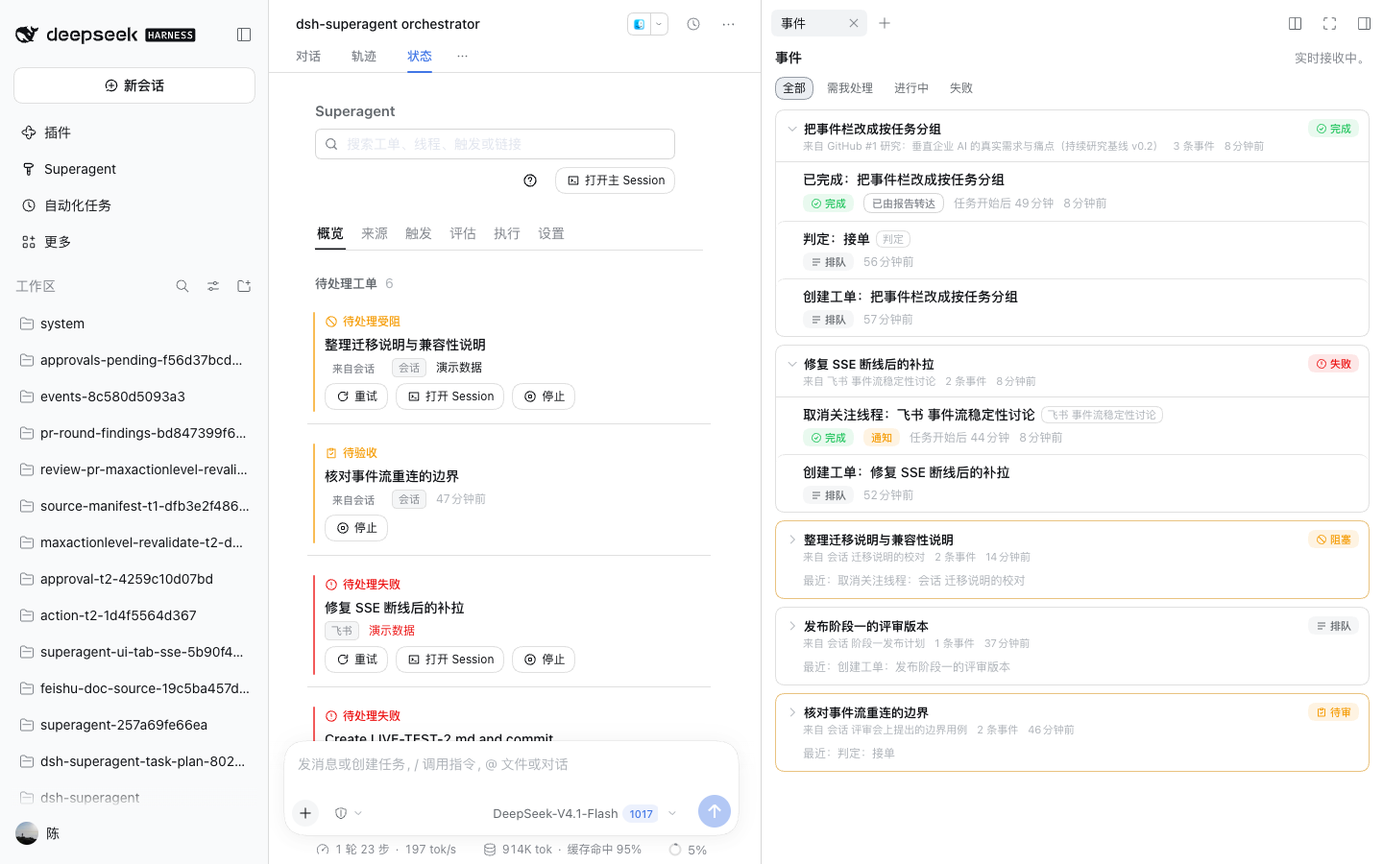
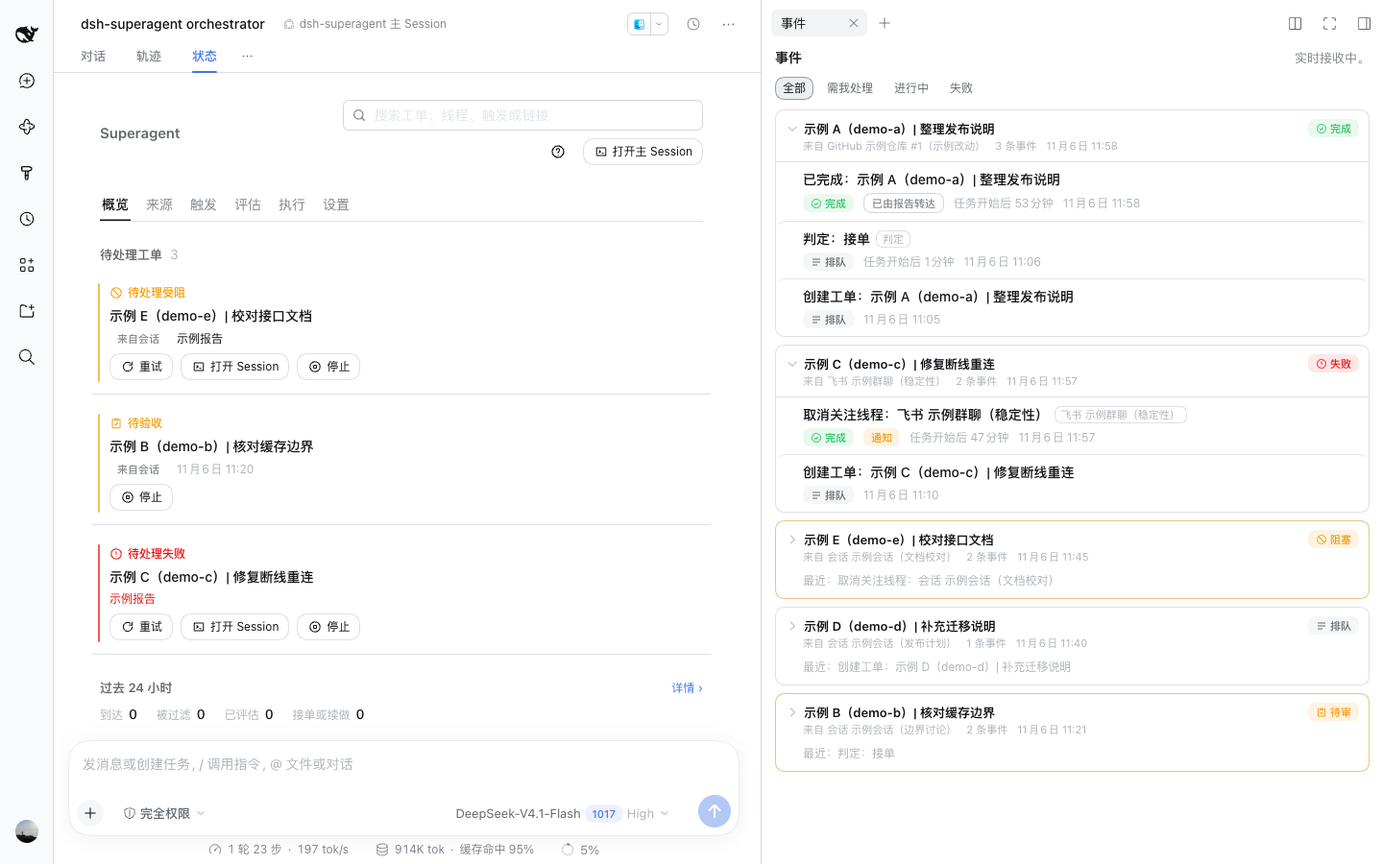
fix: complete Events review findings
- Keep each ticket end as recorded instead of restating it from the live ticket; recover legacy endings, Thread subjects and trigger intake rows from their summaries and decisions.
- Join an accepted trigger's intake row to the ticket its decision created.
- Give awaiting answers and undelivered inputs their own states, covered by the attention filter.
- Recapture both Events screenshots from one sanitized demo state, with neutral titles and synthetic thread labels, and state that evidence accurately.
- Cover the legacy, resume/re-end, person-stage and streamed-presentation cases; tighten the bundle budgets.

diff --git a/packages/dsh/src/app/activity.ts b/packages/dsh/src/app/activity.ts
@@ -12,7 +12,7 @@ import { preview } from './views/text.ts'
 export type ActivityLevel = 'quiet' | 'feed' | 'notice'
 
 /** How the work an event belongs to stands, in the words a person acts on. */
-export type ActivityStatus = 'queued' | 'working' | 'idle' | 'review' | 'blocked' | 'failed' | 'done'
+export type ActivityStatus = 'queued' | 'working' | 'idle' | 'review' | 'answer' | 'delivery' | 'blocked' | 'failed' | 'done'
 
 /** What an event is about: a Ticket, Thread, Trigger, Decision or the Policy, with enough to label and open it. */
 export interface ActivitySubject {
@@ -95,6 +95,8 @@ interface ActivityRead {
 /** The domain reads a feed page resolves names, states and jump targets through; `Store` implements them. */
 export interface ActivityLookup {
   ticket: (id: string) => Ticket | undefined
+  /** The Ticket a Trigger created, so an intake row joins the task its Decision went on to make. */
+  ticketForTrigger?: (id: string) => Ticket | undefined
   thread: (key: string) => Thread | undefined
   trigger: (id: string) => Trigger | undefined
   decision: (id: string) => Decision | undefined
@@ -103,7 +105,7 @@ export interface ActivityLookup {
 
 /** The Store reads behind an `ActivityLookup`; optional chaining keeps a partial test double from failing a read. */
 export interface ActivityStoreReads {
-  tickets: { get: (id: string) => Ticket | undefined }
+  tickets: { get: (id: string) => Ticket | undefined; byTrigger?: (id: string) => Ticket | undefined }
   threads: { get: (key: string) => Thread | undefined }
   triggers: { get: (id: string) => Trigger | undefined }
   decisions: { get: (id: string) => Decision | undefined }
@@ -111,7 +113,8 @@ export interface ActivityStoreReads {
 }
 /** Bind an `ActivityLookup` to a Store, so every feed page can name its objects without the routes passing four readers. */
 export function activityLookup(store: ActivityStoreReads): ActivityLookup {
-  return { ticket: id => store.tickets?.get(id), thread: key => store.threads?.get(key), trigger: id => store.triggers?.get(id),
+  return { ticket: id => store.tickets?.get(id), ticketForTrigger: id => store.tickets?.byTrigger?.(id),
+    thread: key => store.threads?.get(key), trigger: id => store.triggers?.get(id),
     decision: id => store.decisions?.get(id), firstTrigger: key => store.read?.firstTrigger(key) }
 }
 
@@ -128,14 +131,19 @@ export function endCoveredBy(ticket: Ticket): 'report' | 'human' | undefined {
   return report && (report.state === 'ready' || report.state === 'dropped') ? 'report' : undefined
 }
 
+/** The state an ending leaves behind: an unmerged close or a stop is a failure, every other outcome is done. */
+function endedStatus(outcome: TicketOutcome | undefined): ActivityStatus {
+  return outcome === 'closed' || outcome === 'stopped' ? 'failed' : 'done'
+}
+
 /** The state a Ticket is in: ended Tickets are done unless their outcome is a failure, and a person's turn maps to its action. */
 export function activityStatusOf(ticket: Ticket): ActivityStatus {
   const stage = ticketStage(ticket)
   switch (stage.stage) {
     case 'ended':
-      return ticket.ended?.outcome === 'closed' || ticket.ended?.outcome === 'stopped' ? 'failed' : 'done'
+      return endedStatus(ticket.ended?.outcome)
     case 'person':
-      return stage.action === 'review' ? 'review' : stage.action === 'failed' ? 'failed' : 'blocked'
+      return stage.action
     case 'working':
       return stage.action === 'queued' ? 'queued' : 'working'
     case 'idle':
@@ -294,15 +302,22 @@ function namedSubject(subject: ActivitySubject, thread: Thread | undefined, look
   return subject.kind === 'thread' && thread ? threadSubject(thread, lookup) : subject
 }
 
+/** The Trigger id a summary written before grading names, for intake and follow-up rows. */
+function legacyTriggerId(record: ActivityRecord): string | undefined {
+  return /^Trigger (\S+) (?:received|queued for a fresh assessment|left the follow-up queue)$/.exec(record.summary)?.[1]
+}
+
 /** A row stored before subjects were graded: name the object its summary or its Ticket names. */
 function inferredSubject(record: ActivityRecord, owner: Ticket | undefined, thread: Thread | undefined, lookup: ActivityLookup): ActivitySubject | undefined {
   if (record.subject) return namedSubject(record.subject, thread, lookup)
   const decision = /^Decision (\S+) \(/.exec(record.summary)?.[1]
   if (record.event === 'decision.recorded' && decision) return { kind: 'decision', id: decision }
+  // A follow row's object is the Thread even though the row also names the owning Ticket.
+  if ((record.event === 'thread.subscribed' || record.event === 'thread.unsubscribed') && thread) return threadSubject(thread, lookup)
+  const trigger = legacyTriggerId(record)
+  if (record.event.startsWith('trigger.') && trigger) return { kind: 'trigger', id: trigger }
   if (record.ticket) return { kind: 'ticket', id: record.ticket }
   if (owner) return { kind: 'ticket', id: owner.id }
-  const trigger = /^Trigger (\S+) received$/.exec(record.summary)?.[1]
-  if (record.event === 'trigger.received' && trigger) return { kind: 'trigger', id: trigger }
   return thread ? threadSubject(thread, lookup) : undefined
 }
 
@@ -311,23 +326,46 @@ function inferredReason(record: ActivityRecord): string | undefined {
   return /^Assignment \S+ ended on \S+: (.+)$/.exec(record.summary)?.[1]
 }
 
+const OUTCOMES = new Set<TicketOutcome>(['completed', 'merged', 'closed', 'dropped', 'stopped'])
+
+/** The ending a legacy summary names: an outcome, a reason, or neither when it does not parse. */
+function legacyEnd(record: ActivityRecord): { outcome?: TicketOutcome; reason?: string } {
+  const value = /^Ticket \S+ ended \((.+)\)$/.exec(record.summary)?.[1]
+  if (!value) return {}
+  return (OUTCOMES as Set<string>).has(value) ? { outcome: value as TicketOutcome } : { reason: value }
+}
+
+/**
+ * The ending a row records. A graded row keeps its stored facts even after the Ticket was resumed and ended again; a legacy
+ * row recovers what its summary names, and only an unparseable one falls back to the Ticket as it stands now.
+ */
+function endedFacts(record: ActivityRecord, ticket: Ticket | undefined): ActivityDetail | undefined {
+  if (record.event !== 'ticket.ended') return undefined
+  if (record.detail?.outcome) return { outcome: record.detail.outcome, ...record.detail.reason ? { reason: record.detail.reason } : {} }
+  const legacy = record.detail ? {} : legacyEnd(record)
+  const current = record.detail || legacy.outcome || legacy.reason ? undefined : ticket?.ended
+  const outcome = record.detail?.outcome ?? legacy.outcome ?? current?.outcome
+  const reason = record.detail?.reason ?? legacy.reason ?? current?.reason
+  return outcome || reason ? { ...outcome ? { outcome } : {}, ...reason ? { reason } : {} } : undefined
+}
+
 /**
  * Completes one stored record for the Events tab: the object badge, the owning task and its originating Thread, how the
  * work stood at this event and now, the event's facts, and how long after the task's start it happened. Every field is
  * optional so a row written before this presentation existed still reads: its Ticket, Thread and summary name it instead.
  */
 export function presentActivity(record: ActivityRecord, lookup: ActivityLookup): ActivityRecord {
-  const legacyTrigger = !record.subject && record.event === 'trigger.received'
-    ? /^Trigger (\S+) received$/.exec(record.summary)?.[1] : undefined
   const subjectRef = record.subject
-  const triggerId = subjectRef?.kind === 'trigger' ? subjectRef.id : legacyTrigger
+  const triggerId = subjectRef?.kind === 'trigger' ? subjectRef.id : !record.subject ? legacyTriggerId(record) : undefined
   const trigger = triggerId ? lookup.trigger(triggerId) : undefined
   const legacyDecision = !record.subject && record.event === 'decision.recorded'
     ? /^Decision (\S+) \(/.exec(record.summary)?.[1] : undefined
   const decisionId = subjectRef?.kind === 'decision' ? subjectRef.id : legacyDecision
   const decision = decisionId ? lookup.decision(decisionId) : undefined
-  const ticketId = record.ticket ?? (subjectRef?.kind === 'ticket' ? subjectRef.id : undefined) ?? decision?.ticketId
-  const ticket = ticketId ? lookup.ticket(ticketId) : undefined
+  // An accepted Trigger's intake row joins the Ticket the Decision created, so one task stays one group.
+  const originTicket = triggerId ? lookup.ticketForTrigger?.(triggerId) : undefined
+  const ticketId = record.ticket ?? (subjectRef?.kind === 'ticket' ? subjectRef.id : undefined) ?? decision?.ticketId ?? originTicket?.id
+  const ticket = (ticketId ? lookup.ticket(ticketId) : undefined) ?? originTicket
   const home = record.thread ?? (subjectRef?.kind === 'thread' ? subjectRef.id : undefined)
     ?? (trigger?.threads[0] ? threadKey(trigger.threads[0]) : undefined)
   const thread = home ? lookup.thread(home) : undefined
@@ -338,20 +376,22 @@ export function presentActivity(record: ActivityRecord, lookup: ActivityLookup):
     ? { id: ticket.id, title: ticket.title, status: activityStatusOf(ticket), ...parent ? { parent } : {} }
     : thread ? { id: thread.key, title: threadTitle(thread, lookup), status: statusOf(record.event, decision, undefined) } : undefined
 
+  const ended = endedFacts(record, ticket)
   const triggerPreview = trigger ? preview(trigger.text, 120) : undefined
   const detail: ActivityDetail = {
     ...record.detail,
-    ...record.event === 'ticket.ended' && ticket?.ended ? { outcome: ticket.ended.outcome, ...ticket.ended.reason ? { reason: ticket.ended.reason } : {} } : {},
+    ...ended && !record.detail?.outcome ? ended : {},
     ...record.event === 'decision.recorded' && decision ? { decision: decision.kind } : {},
     ...record.event === 'assignment.ended' && !record.detail?.reason && inferredReason(record)
       ? { reason: inferredReason(record) } : {},
-    ...record.event === 'trigger.received' && trigger ? { trigger: { source: trigger.source, ...triggerPreview ? { preview: triggerPreview } : {} } } : {},
+    ...record.event.startsWith('trigger.') && trigger
+      ? { trigger: { source: trigger.source, ...triggerPreview ? { preview: triggerPreview } : {} } } : {},
   }
   const started = ticket ? Date.parse(ticket.createdAt) : Number.NaN
   const at = Date.parse(record.at)
   const sinceStartMs = Number.isFinite(started) && Number.isFinite(at) && at - started >= 60_000 ? at - started : undefined
   return { ...record, ...subject ? { subject } : {}, ...task ? { task } : {}, ...home && !record.thread ? { thread: home } : {},
-    status: statusOf(record.event, decision, ticket),
+    status: record.event === 'ticket.ended' ? endedStatus(ended?.outcome) : statusOf(record.event, decision, ticket),
     ...Object.keys(detail).length ? { detail } : {}, ...sinceStartMs ? { sinceStartMs } : {} }
 }
 

diff --git a/tests/activity.spec.ts b/tests/activity.spec.ts
@@ -4,7 +4,7 @@ import { join } from 'node:path'
 import { afterEach, beforeEach, expect, it } from 'vitest'
 import type { Assignment, Decision, DomainEvent, Thread, Ticket, Trigger } from '@superagent/kernel'
 import { Store } from '@superagent/dsh/app/store.ts'
-import { ActivityLog, activityFeed, endCoveredBy, gradeEvent, presentActivity, type ActivityLookup } from '@superagent/dsh/app/activity.ts'
+import { ActivityLog, activityFeed, activityStatusOf, endCoveredBy, gradeEvent, presentActivity, type ActivityLookup } from '@superagent/dsh/app/activity.ts'
 import { eventNotice } from '@superagent/dsh/app/notices.ts'
 
 let directory: string
@@ -14,7 +14,7 @@ afterEach(() => { rmSync(directory, { recursive: true, force: true }) })
 /** One domain event, with only the fields its grader reads. */
 const event = <K extends DomainEvent['type']>(type: K, data: Extract<DomainEvent, { type: K }>['data'], at = '2026-01-01T00:00:01Z'): DomainEvent =>
   ({ type, at, data }) as DomainEvent
-const report = (state: 'ready' | 'blocked' | 'dropped' | 'progress'): Assignment['report'] => ({ state, summary: 'x', at: '2026-01-01T00:00:02Z' })
+const report = (state: 'ready' | 'blocked' | 'failed' | 'dropped' | 'progress'): Assignment['report'] => ({ state, summary: 'x', at: '2026-01-01T00:00:02Z' })
 const ticket = (ended: Ticket['ended'], assignments: Assignment[] = []): Ticket => ({
   id: 't1', title: 'Fix', decisionId: 'd1', mandate: { strength: 'explicit', policyVersion: 'v', basis: { via: 'listed' },
     actor: { source: 'feishu', id: 'u1' }, scope: '' }, channels: [], ended, assignments, inputs: [], undelivered: [], createdAt: '', updatedAt: '',
@@ -72,6 +72,8 @@ it('persists graded events with a monotonic cursor, filters by minimum level, an
   const log = new ActivityLog(store)
   store.tickets.save(ticket({ at: '2026-01-01T00:00:03Z', by: 'executor', outcome: 'completed' },
     [{ id: 'a1', state: 'ended', createdAt: '', report: report('ready') }]))
+  expect(store.tickets.byTrigger('x')).toMatchObject({ id: 't1' })
+  expect(store.tickets.byTrigger('missing')).toBeUndefined()
   const first = log.record(event('trigger.received', { triggerId: 'x', threads: [] }))
   const second = log.record(event('eval.started', { evalId: 'e1', threadKey: 'feishu:oc:om', triggerIds: ['x'], strength: 'inferred' }))
   const third = log.record(event('ticket.ended', { ticketId: 't1', by: 'executor', outcome: 'completed' }))
@@ -157,7 +159,9 @@ const parentThread: Thread = { key: 'github:8', ref: { source: 'github', id: '8'
 const decision: Decision = { id: 'd1', evalId: 'e1', ticketId: 't1', kind: 'accept', strength: 'explicit', threadKey: 'github:8',
   triggerIds: ['x'], reason: [], policyVersion: 'v', at: '2026-01-01T00:00:00Z',
   mandate: { strength: 'explicit', policyVersion: 'v', basis: { via: 'listed' }, actor: { source: 'feishu', id: 'u1' }, scope: '' } }
-const lookup: ActivityLookup = { ticket: id => id === 't1' ? { ...ticket(undefined), createdAt: '2026-01-01T00:00:00Z' } : undefined,
+const ownerTicket = { ...ticket(undefined), createdAt: '2026-01-01T00:00:00Z' }
+const lookup: ActivityLookup = { ticket: id => id === 't1' ? ownerTicket : undefined,
+  ticketForTrigger: id => id === 'x' ? ownerTicket : undefined,
   thread: key => key === 'github:8' ? parentThread : undefined, trigger: id => id === 'x' ? origin : undefined,
   decision: id => id === 'd1' ? decision : undefined, firstTrigger: () => origin }
 
@@ -182,14 +186,54 @@ it('presents a row stored before subjects and details existed, from its Ticket, 
   // A trigger row before the trigger id was stored still names the object and reads its preview from the summary.
   const received = { seq: 10, at: '2026-01-01T00:00:00Z', event: 'trigger.received' as const, level: 'feed' as const,
     summary: 'Trigger x received' }
+  // The intake row joins the Ticket its Decision created instead of leaving a Thread group beside it.
   expect(presentActivity(received, lookup)).toMatchObject({ status: 'queued', subject: { kind: 'trigger', id: 'x' },
     thread: 'github:8', detail: { trigger: { source: 'feishu', preview: 'Fix the events tab' } },
-    task: { id: 'github:8', title: '#8 Events tab' } })
+    task: { id: 't1', title: 'Fix', status: 'queued',
+      parent: { kind: 'thread', id: 'github:8', source: 'github', label: '#8 Events tab' } } })
+})
+
+it('keeps an earlier ending when its ticket was resumed and ended again', () => {
+  const record = { seq: 11, ...gradeEvent(event('ticket.ended', { ticketId: 't1', by: 'executor', outcome: 'completed' }, '2026-01-01T00:10:00Z'),
+    { ...ownerTicket, ended: { at: '2026-01-01T00:10:00Z', by: 'executor', outcome: 'completed' } }) }
+  // The live ticket now records the later, failed end; the stored row still reads as the completed end it recorded.
+  const live = { ...ownerTicket, ended: { at: '2026-01-02T00:10:00Z', by: 'executor' as const, outcome: 'closed' as const } }
+  expect(presentActivity(record, { ...lookup, ticket: () => live, ticketForTrigger: undefined }))
+    .toMatchObject({ status: 'done', detail: { outcome: 'completed' }, task: { status: 'failed' } })
+  // A legacy row parses its own summary even when the live ticket has a different ending.
+  const legacy = { seq: 12, at: '2026-01-01T00:10:00Z', event: 'ticket.ended' as const, level: 'notice' as const,
+    summary: 'Ticket t1 ended (completed)', ticket: 't1' }
+  expect(presentActivity(legacy, { ...lookup, ticket: () => live })).toMatchObject({ status: 'done', detail: { outcome: 'completed' } })
+})
+
+it('gives a legacy unsubscribe row its Thread subject and completes legacy trigger notices', () => {
+  const unsubscribed = { seq: 13, at: '2026-01-01T00:00:00Z', event: 'thread.unsubscribed' as const, level: 'notice' as const,
+    summary: 'Ticket t1 unsubscribed from github:8 (person)', ticket: 't1', thread: 'github:8' }
+  expect(presentActivity(unsubscribed, lookup)).toMatchObject({ subject: { kind: 'thread', id: 'github:8', source: 'github',
+    label: '#8 Events tab' }, status: 'done' })
+  const requeued = { seq: 14, at: '2026-01-01T00:00:00Z', event: 'trigger.requeued' as const, level: 'notice' as const,
+    summary: 'Trigger x queued for a fresh assessment' }
+  expect(presentActivity(requeued, lookup)).toMatchObject({ status: 'blocked', subject: { kind: 'trigger', id: 'x' },
+    thread: 'github:8', detail: { trigger: { source: 'feishu', preview: 'Fix the events tab' } }, task: { id: 't1' } })
+})
+
+it('maps every person stage to its own state', () => {
+  const base = ticket(undefined)
+  expect(activityStatusOf({ ...base, attention: { id: 'q', question: 'Which?' } })).toBe('answer')
+  expect(activityStatusOf({ ...base, delivery: { error: 'missing worktree', at: '2026-01-01T00:00:00Z' } })).toBe('delivery')
+  expect(activityStatusOf({ ...base, assignments: [{ id: 'a1', state: 'ended', createdAt: '', report: report('ready') }] })).toBe('review')
+  expect(activityStatusOf({ ...base, assignments: [{ id: 'a1', state: 'ended', createdAt: '', report: report('blocked') }] })).toBe('blocked')
+  expect(activityStatusOf({ ...base, assignments: [{ id: 'a1', state: 'ended', createdAt: '', report: report('failed') }] })).toBe('failed')
+  expect(activityStatusOf({ ...base, assignments: [{ id: 'a1', state: 'pending', createdAt: '' }] })).toBe('queued')
+  expect(activityStatusOf({ ...base, assignments: [{ id: 'a1', state: 'running', createdAt: '', startedAt: '' }] })).toBe('working')
+  expect(activityStatusOf({ ...base, assignments: [{ id: 'a1', state: 'ended', createdAt: '', report: report('progress') }] })).toBe('idle')
+  expect(activityStatusOf({ ...base, ended: { at: '', by: 'executor', outcome: 'completed' } })).toBe('done')
+  expect(activityStatusOf({ ...base, ended: { at: '', by: 'executor', outcome: 'closed' } })).toBe('failed')
 })
 
 it('completes a feed page only when the reader provides the domain lookup', () => {
   const read = { latest: () => 1, recent: () => [{ seq: 1, at: '2026-01-01T00:00:00Z', event: 'trigger.received' as const,
     level: 'feed' as const, summary: 'Trigger x received' }], after: () => [] }
   expect(activityFeed(read, 0).items[0]?.task).toBeUndefined()
-  expect(activityFeed(read, 0, 50, undefined, lookup).items[0]?.task).toMatchObject({ id: 'github:8' })
+  expect(activityFeed(read, 0, 50, undefined, lookup).items[0]?.task).toMatchObject({ id: 't1' })
 })

diff --git a/packages/dsh/src/client/system.tsx b/packages/dsh/src/client/system.tsx
@@ -15,9 +15,9 @@ import { duration, fullTime, localized, reasonLabel, valueLabel, when, type T } 
 
 const LEVEL_TONE = { quiet: 'outline', feed: 'info', notice: 'warning' } as const
 const STATUS_TONE: Record<ActivityStatus, TagTone> = { queued: 'neutral', working: 'info', idle: 'neutral', review: 'warning',
-  blocked: 'warning', failed: 'danger', done: 'success' }
+  answer: 'warning', delivery: 'warning', blocked: 'warning', failed: 'danger', done: 'success' }
 const STATUS_ICON: Record<ActivityStatus, IconName> = { queued: 'queue', working: 'running', idle: 'clock', review: 'review',
-  blocked: 'blocked', failed: 'alert', done: 'decision' }
+  answer: 'ask', delivery: 'inbox', blocked: 'blocked', failed: 'alert', done: 'decision' }
 const FILTERS = ['all', 'attention', 'running', 'failed'] as const
 const REPORT_REASONS = ['progress', 'waiting', 'ready', 'blocked', 'failed', 'dropped'] as const
 /** How the Events tab narrows task groups: everything, a person's turn or trouble, live work, or failure alone. */
@@ -56,8 +56,12 @@ export function activityTitle(t: T, record: ActivityRecord): string {
       return title ? t('activityEvent.ticketCreated', { title }) : record.summary
     case 'ticket.resumed':
       return title ? t('activityEvent.ticketResumed', { title }) : record.summary
-    case 'ticket.ended':
-      return detail?.outcome && title ? t('activityEvent.ticketEnded', { outcome: t(`outcome.${detail.outcome}`), title }) : record.summary
+    case 'ticket.ended': {
+      if (!detail?.outcome || !title) return record.summary
+      const reason = detail.reason && detail.reason !== detail.outcome ? reasonLabel(t, detail.reason) : ''
+      return reason ? t('activityEvent.ticketEndedReason', { outcome: t(`outcome.${detail.outcome}`), reason, title })
+        : t('activityEvent.ticketEnded', { outcome: t(`outcome.${detail.outcome}`), title })
+    }
     case 'assignment.started':
       return t('activityEvent.assignmentStarted')
     case 'assignment.ended':
@@ -97,7 +101,8 @@ export function groupStatus(record: ActivityRecord): ActivityStatus {
 export function matchesActivityFilter(status: ActivityStatus, filter: ActivityFilter): boolean {
   switch (filter) {
     case 'all': return true
-    case 'attention': return status === 'review' || status === 'blocked' || status === 'failed'
+    case 'attention': return status === 'review' || status === 'answer' || status === 'delivery' || status === 'blocked'
+      || status === 'failed'
     case 'running': return status === 'queued' || status === 'working' || status === 'idle'
     case 'failed': return status === 'failed'
   }

diff --git a/tests/client.spec.tsx b/tests/client.spec.tsx
@@ -7,6 +7,7 @@ import { apply } from '@superagent/dsh/client/index.tsx'
 import type { ActivityRecord } from '@superagent/dsh/app/activity.ts'
 import { zh } from '@superagent/dsh/client/locales.ts'
 import { PANEL_NAVIGATE } from '@superagent/dsh/client/panel.ts'
+import { activityTitle, matchesActivityFilter } from '@superagent/dsh/client/system.tsx'
 import { SettingsSchema } from '@superagent/dsh/policy.ts'
 
 declare global { var IS_REACT_ACT_ENVIRONMENT: boolean }
@@ -286,6 +287,17 @@ it('groups events by task with readable titles, object badges, states, durations
   window.removeEventListener(PANEL_NAVIGATE, onNavigate)
   expect(navigated).toEqual({ page: 'eval' })
   view.dispose()
+})
+it('treats answer and delivery work as needing a person and keeps a recorded ending reason in the title', () => {
+  expect(matchesActivityFilter('answer', 'attention')).toBe(true)
+  expect(matchesActivityFilter('delivery', 'attention')).toBe(true)
+  expect(matchesActivityFilter('answer', 'failed')).toBe(false)
+  const ended = { seq: 1, at: '2026-01-01T00:00:00Z', event: 'ticket.ended' as const, level: 'feed' as const,
+    summary: 'Ticket t1 ended (manual)', ticket: 't1', detail: { outcome: 'closed' as const, reason: 'manual' },
+    task: { id: 't1', title: '固定标题', status: 'failed' as const } }
+  const title = activityTitle(t, ended)
+  expect(title).toContain('固定标题')
+  expect(title).toContain('manual')
 })
 it('opens the Events tab once when the first unread notice reaches the main Session', async () => {
   serve()

diff --git a/packages/dsh/src/client/locales.ts b/packages/dsh/src/client/locales.ts
@@ -123,6 +123,8 @@ const TEXT = {
   'activityStatus.working': ['进行中', 'In progress'],
   'activityStatus.idle': ['等待触发', 'Waiting for a Trigger'],
   'activityStatus.review': ['待审', 'Awaiting review'],
+  'activityStatus.answer': ['待回答', 'Awaiting answer'],
+  'activityStatus.delivery': ['输入未送达', 'Input not delivered'],
   'activityStatus.blocked': ['阻塞', 'Blocked'],
   'activityStatus.failed': ['失败', 'Failed'],
   'activityStatus.done': ['完成', 'Done'],
@@ -141,6 +143,7 @@ const TEXT = {
   'activityEvent.ticketCreated': ['创建工单：{title}', 'Ticket created: {title}'],
   'activityEvent.ticketResumed': ['恢复工单：{title}', 'Ticket resumed: {title}'],
   'activityEvent.ticketEnded': ['{outcome}：{title}', '{outcome}: {title}'],
+  'activityEvent.ticketEndedReason': ['{outcome}（{reason}）：{title}', '{outcome} ({reason}): {title}'],
   'activityEvent.assignmentStarted': ['执行器开始处理', 'Assignment started'],
   'activityEvent.assignmentEnded': ['执行结束：{reason}', 'Assignment ended: {reason}'],
   'activityEvent.threadSubscribed': ['关注线程：{name}', 'Following Thread: {name}'],

diff --git a/packages/dsh/src/app/store.ts b/packages/dsh/src/app/store.ts
@@ -263,6 +263,13 @@ export class Store implements Repositories {
   }
   readonly tickets = {
     get: (id: string): Ticket | undefined => { const row = this.db.prepare('SELECT value FROM ticket WHERE id=?').get(id); return row ? JSON.parse(String(row.value)) as Ticket : undefined },
+    /** The Ticket a Trigger created, so an Events row can join the task its intake became. */
+    byTrigger: (triggerId: string): Ticket | undefined => {
+      const row = this.db.prepare(`SELECT value FROM ticket WHERE value ->> '$.origin.triggerId' = ?
+        OR EXISTS (SELECT 1 FROM json_each(json_extract(value, '$.origin.triggerIds')) j WHERE j.value = ?) ORDER BY rowid LIMIT 1`)
+        .get(triggerId, triggerId)
+      return row ? JSON.parse(String(row.value)) as Ticket : undefined
+    },
     save: (ticket: Ticket): void => { this.db.prepare('INSERT INTO ticket VALUES (?,?) ON CONFLICT(id) DO UPDATE SET value=excluded.value').run(ticket.id, JSON.stringify(ticket)) },
     /** Newest first. */
     list: (): Ticket[] => this.values('SELECT value FROM ticket ORDER BY rowid DESC'),

diff --git a/tests/http.spec.ts b/tests/http.spec.ts
@@ -175,6 +175,9 @@ it('streams activity after a cursor with sequence ids and a ready head', async (
   expect(result.text).not.toContain('id: 1\n')
   expect(result.text).toContain('id: 2\nevent: activity\ndata: {"seq":2')
   expect(result.text).toContain('id: 3\nevent: activity')
+  // Streamed rows carry the same presentation as GET activity, not only the stored facts.
+  expect(result.text).toContain('"subject":{"kind":"trigger","id":"2"}')
+  expect(result.text).toContain('"status":"queued"')
   expect(result.text.match(/event: ready/g)).toHaveLength(2)
 })
 it('lets Last-Event-ID supersede the connection URL cursor, so a reconnect does not replay', async () => {

diff --git a/docs/005-panel.md b/docs/005-panel.md
@@ -58,7 +58,7 @@ The main Session is the process's single router Session. Four surfaces make it t
 - **New Session → Main Session.** The right side of the New Session composer offers **Main Session** (主会话), which selects the existing `masterId` through the Workspace. It never starts another router Session; using it twice returns to the same Conversation. If the Session catalog is not ready, the control disables itself and reports why. The management panel keeps its own **Open main Session** header button as a fallback.
 - **The main Session row** carries a compact **Main** (主) badge in its leading decoration. DSH `0.2.1-rc.5` has no trailing decoration on Session rows, so the badge is leading rather than trailing.
 - **Status** (状态) is a tab inside the main Conversation. It mounts the existing management page itself — the same header, search, tabs (Overview, Sources, Triggers, Eval, Execution, Settings) and actions as the sidebar panel — rather than a reduced second view. The embedded copy keeps its own page route, so navigating inside 状态 does not move the sidebar panel, and vice versa. Any other Session shows one sentence explaining that the Status page belongs to the main Session.
-- **Events** (事件) is a right-pane tab. Its title shows the number of unread `notice`-level events; opening the tab marks the current head seen and persists the cursor in this browser. The tab opens automatically once, when the first unread notice reaches the main Session; later opening and closing stay manual. The tab folds events into one group per task — a Ticket, or the Thread for work no Ticket owns yet. A group header names the task, its origin (the pull request or conversation it was accepted from), its current state and the latest event; unfolding it shows each event with a readable title, a badge for the object it is about (Ticket, Thread, Trigger, Decision or Policy) that opens that object's page, the state the event recorded, how long after the task's start it happened, and when. Filters above the list narrow it to all events, the ones needing a person (awaiting review, blocked or failed), live work (queued, working or waiting for a Trigger), or failures alone. The tab uses the same-origin SSE stream and falls back to five-second cursor polling when the stream is unavailable; a notice whose result was already relayed by a report stays in the feed without counting as unread. Records written before these facts existed are completed from their Ticket, Thread and one-line summary when the feed is read; the `activity` table stores JSON, so no migration is needed.
+- **Events** (事件) is a right-pane tab. Its title shows the number of unread `notice`-level events; opening the tab marks the current head seen and persists the cursor in this browser. The tab opens automatically once, when the first unread notice reaches the main Session; later opening and closing stay manual. The tab folds events into one group per task — a Ticket, or the Thread for work no Ticket owns yet. A group header names the task, its origin (the pull request or conversation it was accepted from), its current state and the latest event; unfolding it shows each event with a readable title, a badge for the object it is about (Ticket, Thread, Trigger, Decision or Policy) that opens that object's page, the state the event recorded, how long after the task's start it happened, and when. Filters above the list narrow it to all events, the ones needing a person (awaiting review, awaiting an answer, an undelivered input, blocked or failed), live work (queued, working or waiting for a Trigger), or failures alone. The tab uses the same-origin SSE stream and falls back to five-second cursor polling when the stream is unavailable; a notice whose result was already relayed by a report stays in the feed without counting as unread. Records written before these facts existed are completed from their Ticket, Thread and one-line summary when the feed is read; the `activity` table stores JSON, so no migration is needed.
 
 These surfaces depend on host seats introduced by `0.2.1-rc.5` (`conversation.hero.options`, `conversation.view`, `sidebar.session.row.leading`, `sidebar.right.pane.tab` and its title, and `conversation.session.header.utilities`). Registration runs through `slots.inject`, so a host that does not declare a seat omits that surface and keeps the management panel; nothing throws and no separate business logic or API model is created.
 
@@ -68,7 +68,7 @@ These surfaces depend on host seats introduced by `0.2.1-rc.5` (`conversation.he
 | Status page (reused management page) in the main Conversation | ![Before](images/session-entry/before-status-view.png) | ![After](images/session-entry/after-status-view.png) |
 | Events tab grouped by task, with readable rows and filters | ![Before](images/session-entry/before-events-groups.png) | ![After](images/session-entry/after-events-groups.png) |
 
-Captured on DSH `0.2.1-rc.5`, same 1440×900 viewport and light theme. The entry's Before is the host without this plugin's surface; the Status row's Before is revision `c18d8a6`, where 体系 was a reduced read-only view; the Events row's Before is revision `37eaff3`, with the flat event list. After is this branch in every row. The Events pair uses the same seeded Tickets and events and both captures were taken with the tab already open, so the unread count is not part of the comparison.
+Captured on DSH `0.2.1-rc.5`, same 1440×900 viewport and light theme. The entry's Before is the host without this plugin's surface; the Status row's Before is revision `c18d8a6`, where 体系 was a reduced read-only view; the Events row's Before is revision `37eaff3`, with the flat event list. After is this branch in every row. The Events pair uses one sanitized demo state only — Tickets titled 示例 …（demo-*）, synthetic labels, no work content — and both captures read the same state database, unchanged between the runs. Both have the Events tab open and the left sidebar collapsed, so the unread count and session list are not part of the comparison.
 
 ### Health figures
 
